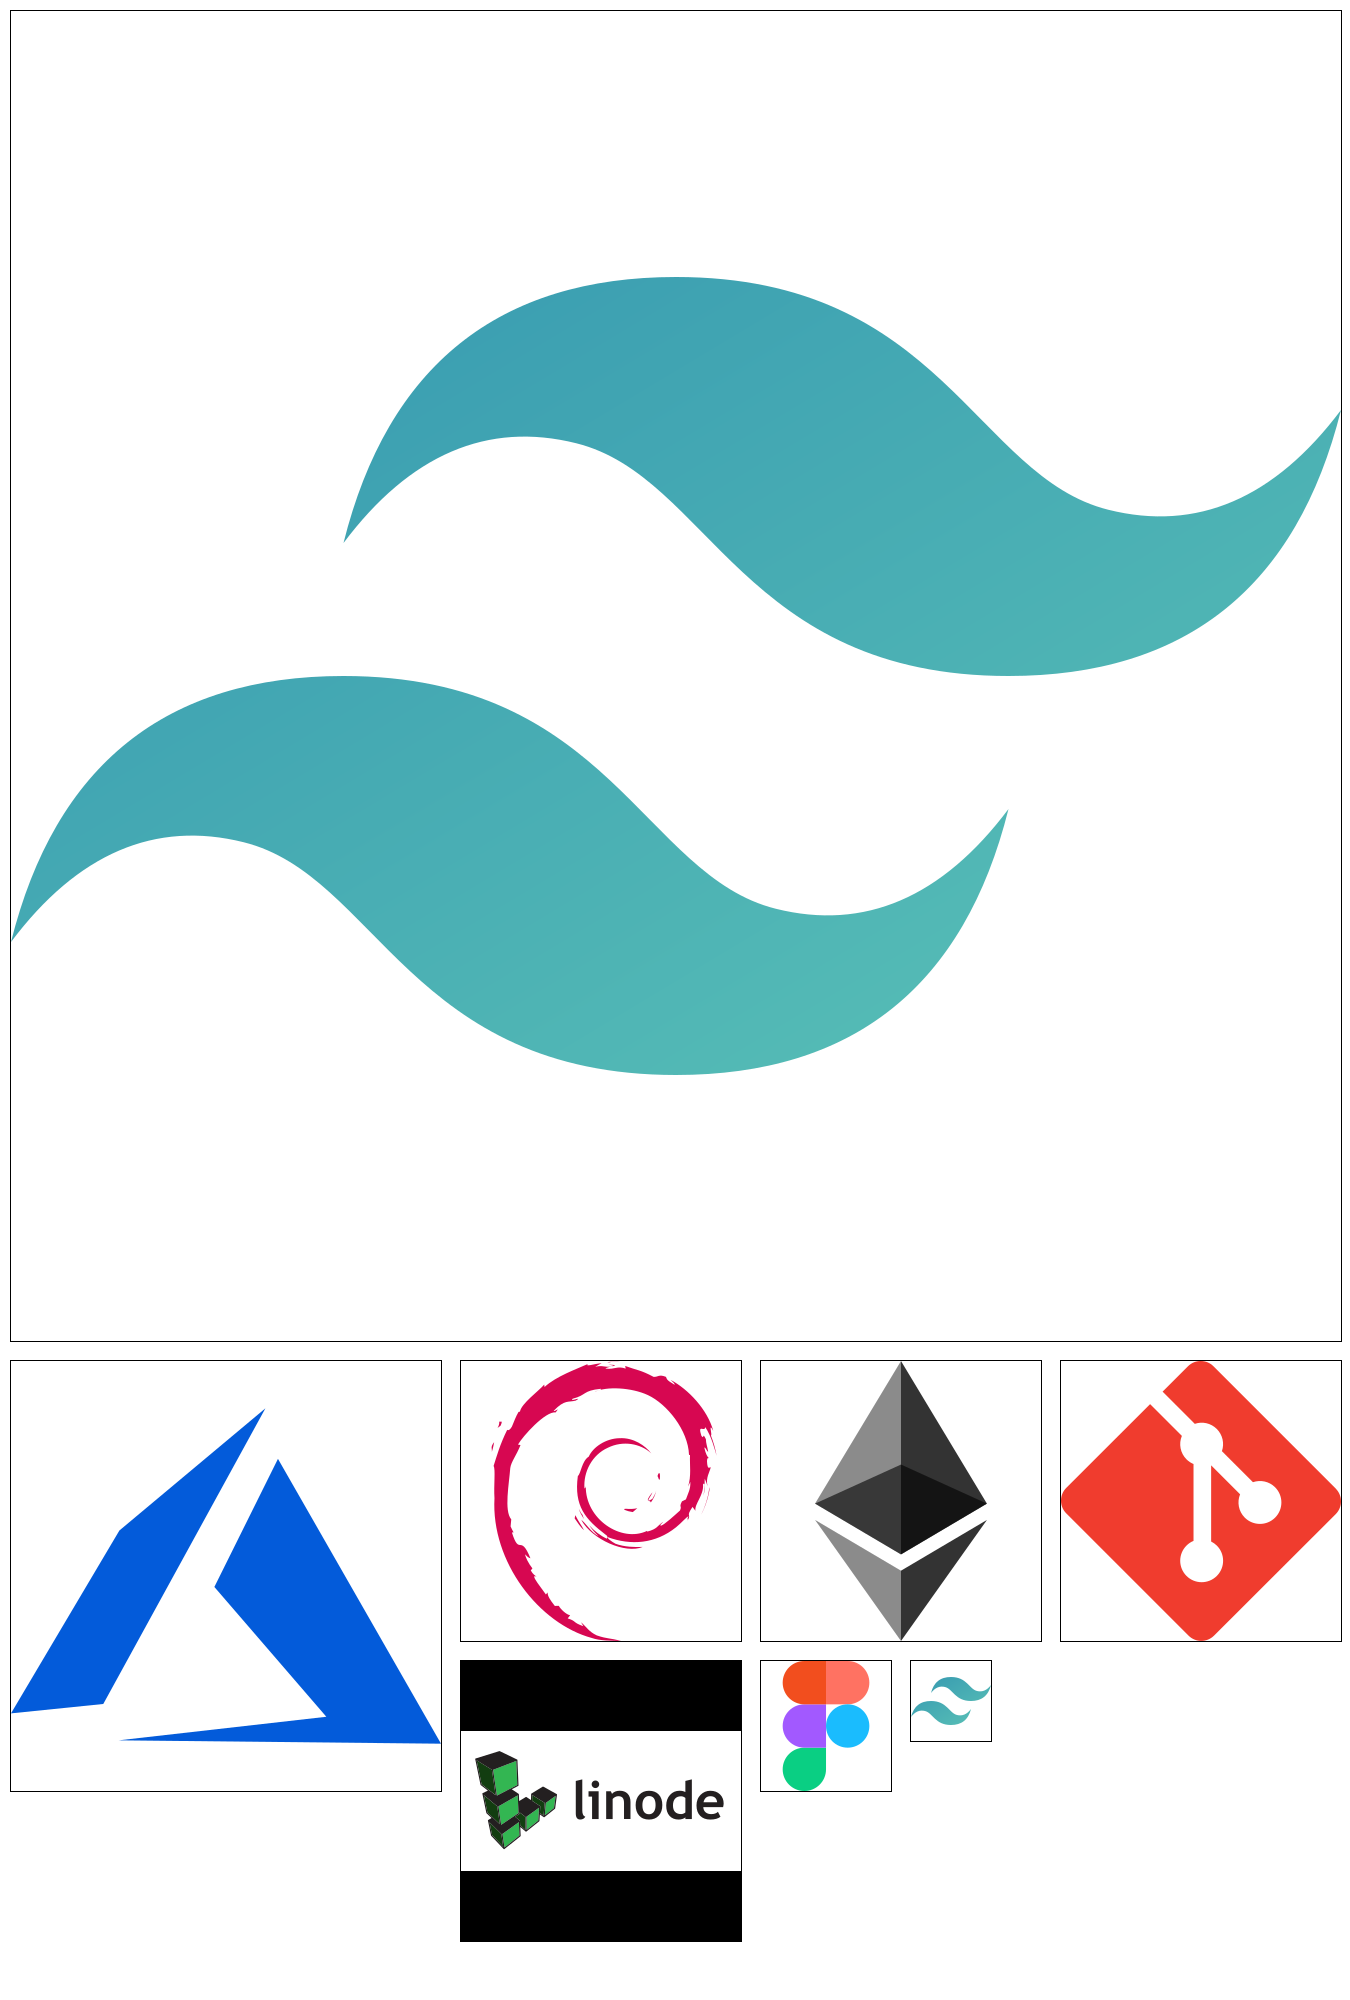
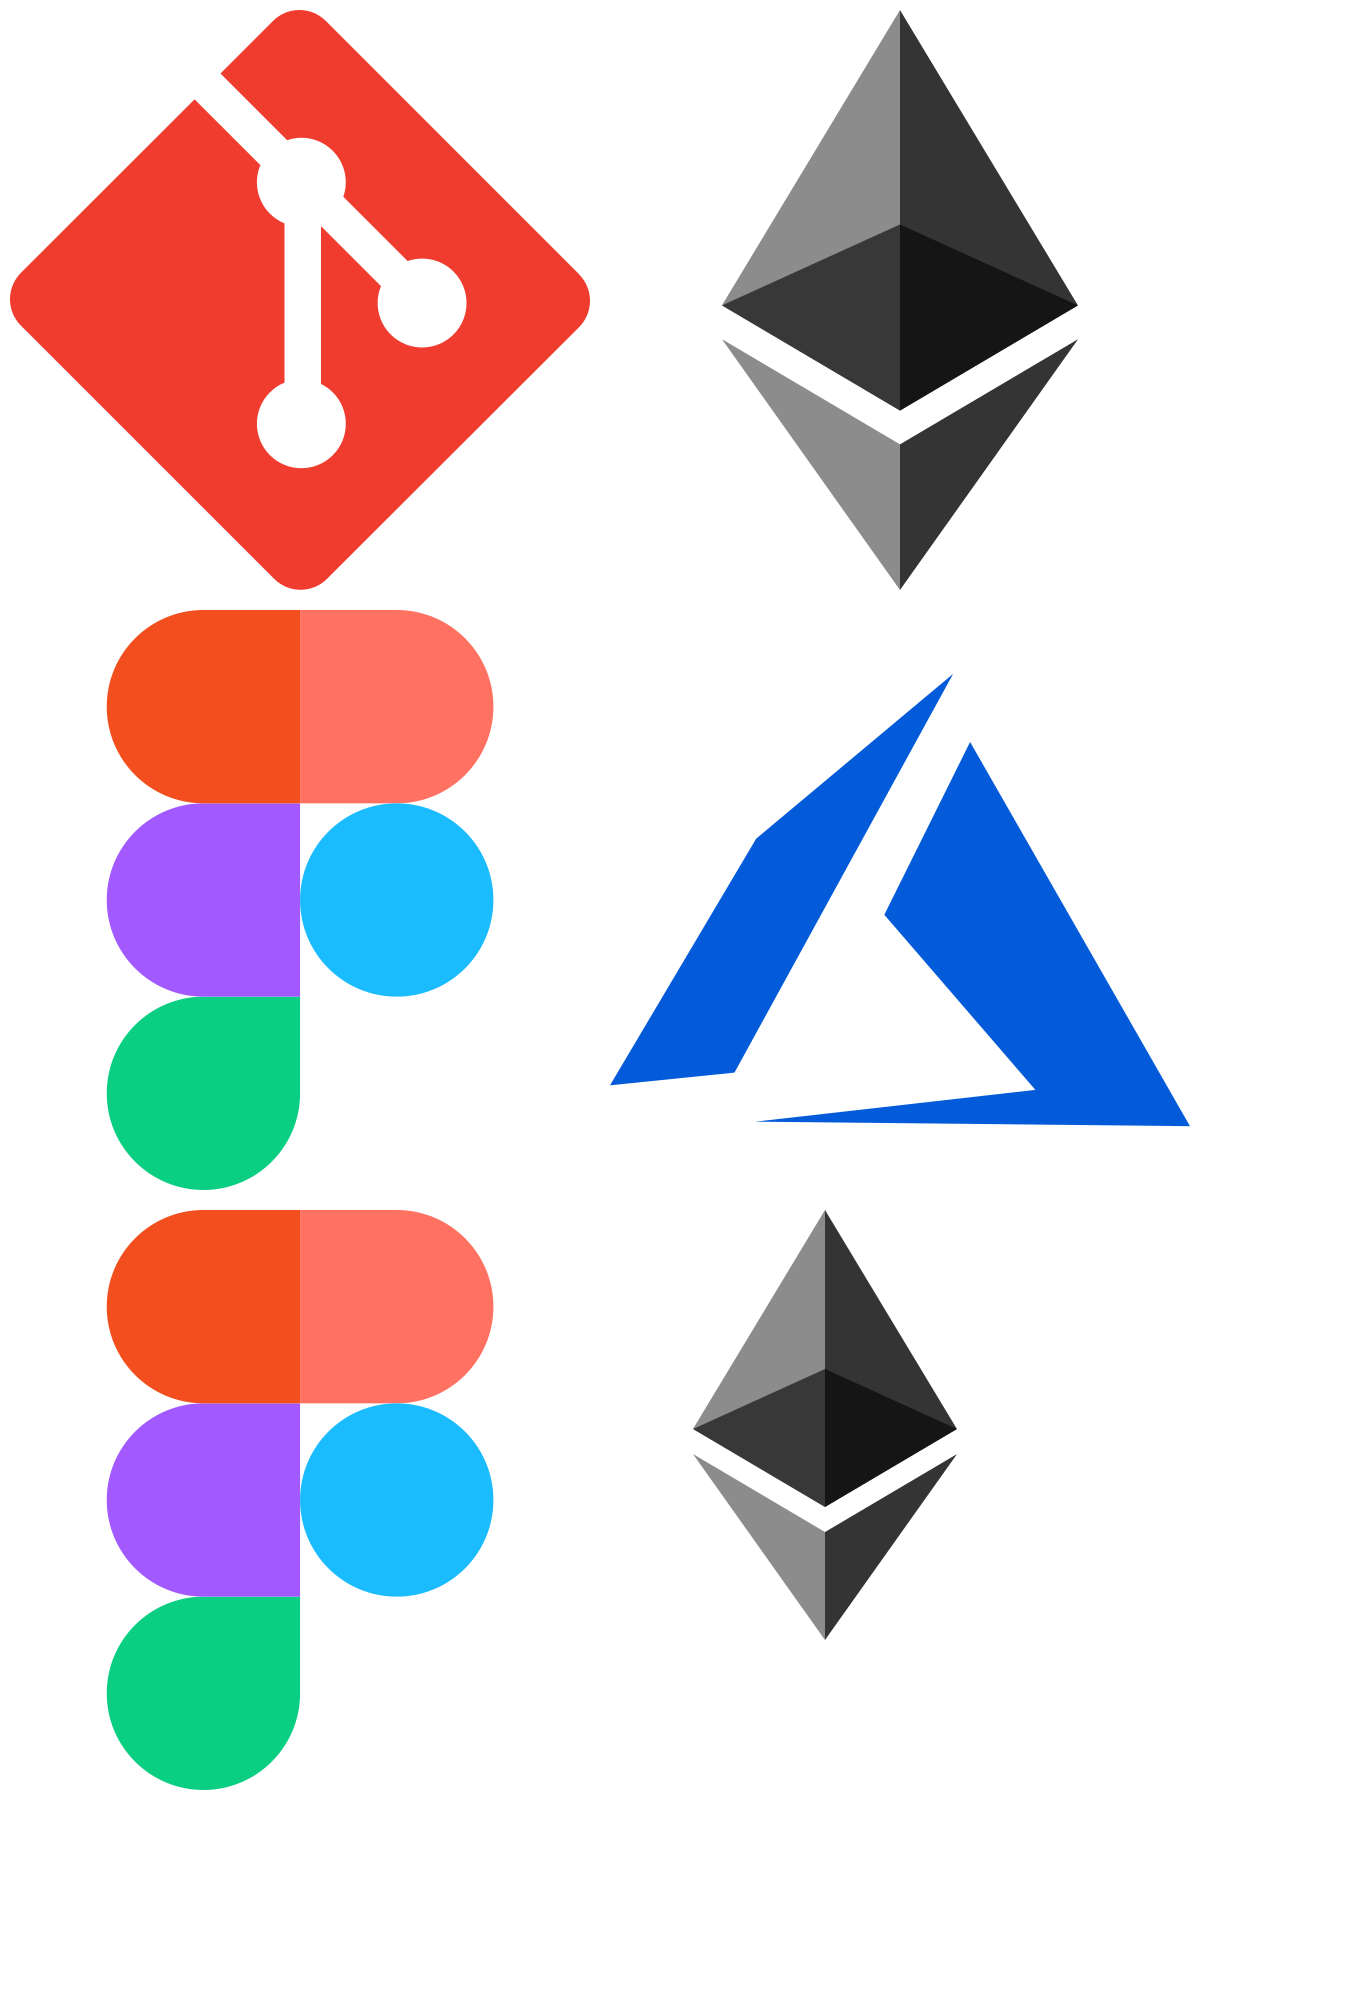
goood stuff

diff --git a/imageCreater.js b/imageCreater.js
@@ -7,16 +7,12 @@ const width = 27 * CM;
 const height = 40 * CM;
 const borderSize = .02 * CM;
 const spacing = .2 * CM;
-const buckets = [
-    { size: 6, img: "imgs/1.svg" },
-    { size: 6, img: "imgs/2.svg" },
-    { size: 3, img: "imgs/3.svg" },
-    { size: 6, img: "imgs/4.svg" },
-    { size: 6, img: "imgs/5.svg" },
-    { size: 9, img: "imgs/6.svg" },
-    { size: 27, img: "imgs/7.svg" },
-    { size: 2, img: "imgs/7.svg" },
-];
+const buckets = new Array(10).fill("").map((_, i) => {
+    const img = `./imgs/${Math.floor(Math.random() * 7)+1}.svg`;
+    const size = (Math.floor(Math.random() * 4)+1) * 3;
+    return ({ img, size });
+});
+
 
 const positions = fitContainer(width / CM, height/CM, buckets);
 console.log(positions)
@@ -31,7 +27,7 @@ async function main () {
                 width: width,
                 height: height,
                 channels: 4,
-                background: { r: 255, g: 255, b: 255, alpha: 1 }
+                background: { r: 255, g: 255, b: 255, alpha: .5 }
             }
         }).png().toBuffer();
         // Load the overlay image (replace 'path/to/overlay.png' with your actual file path)
@@ -39,13 +35,6 @@ async function main () {
         for (let i = 0; i < positions.length; i++) {
             const overlayImage = await sharp(positions[i].img)
                 .resize({ width: (positions[i].width * CM)-(spacing *2) , height: (positions[i].height * CM)-(spacing *2), fit: 'contain' })
-                .extend({
-                    top: borderSize,
-                    bottom: borderSize,
-                    left: borderSize,
-                    right: borderSize,
-                    background: { r: 0, g: 0, b: 0, alpha: 1 } 
-                })
                 .toBuffer();
             // Specify the position and size of the overlay
             const overlayOptions = {
